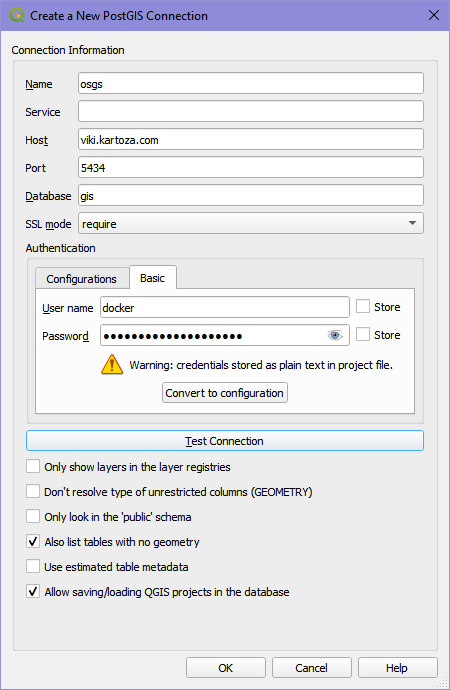
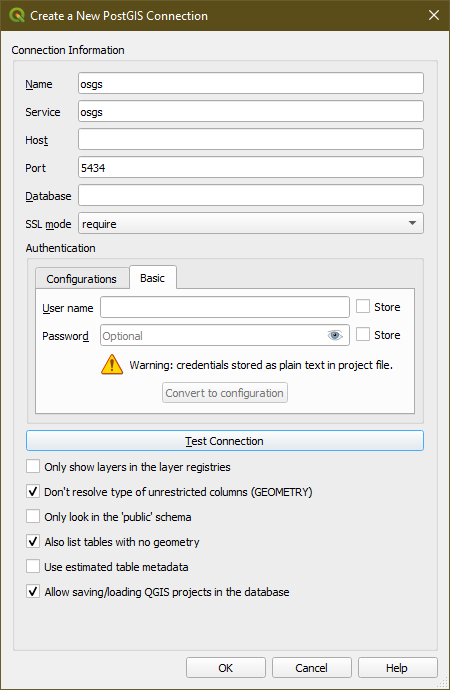
Update the osm mirror workflow

diff --git a/sphinx/source/workflows/create-osm-mirror-in-database.md b/sphinx/source/workflows/create-osm-mirror-in-database.md
@@ -1,34 +1,80 @@
 # Creating an Open Street Map mirror into your database
 
+The OSM mirror service uses the kartoza/docker-osm tool to create an in-database
+mirror of a designated geographical area in the designated postgres
+database schema (set to: osm). The OSM mirror tool is described in the project
+README here:
+
+https://github.com/kartoza/docker-osm
+
+To deploy the osm-mirror service, you need to follow the steps descibed below.
+
+
 ## Preparing the Country PBF file and the clip area document
 
 The PBF files for the country or region of interest can be downloaded from [GeoFabrik](https://download.geofabrik.de/). The PBF file used in this workflow was for Kenya and the URL for the country PBF file is https://download.geofabrik.de/africa/kenya-latest.osm.pbf.
 
-The clip area allows you to limit the features being imported into the PostGIS OSM database to a small area you can work with. You will need to save the clip area document as `conf/osm_conf/clip.geojson`. The `clip.geojson` can be the same extent of the administrative area for your country or region specified in the PBF file, or it can be a smaller extent. The CRS of the geojson should always be EPSG:4326.[[1]](#1)
+The clip area constrains any data being imported into the PostGIS database to a specific geographic area. You will need to save the clip area document as `conf/osm_conf/clip.geojson`. For best performance, a simple rectangle is best, but any complext polygon can be used. The `clip.geojson` can also be the same extent of the administrative area for your country or region specified in the PBF file, or it can be a smaller extent. The CRS of the geojson should always be EPSG:4326.[[1]](#1)
 
 <img src="../img/osm-mirror-workflow-1.png" alt="OSM mirror " width="300"/>
 
 You can easily create such a clip document at  https://geojson.io or by using QGIS. For this workflow the clip area document for the country Kenya, was obtained using QGIS. The Kenya country boundary data was obtained from the [Kenya- Subnational Administrative Boundaries data](https://data.humdata.org/dataset/ken-administrative-boundaries).
 
+
+## Editing the mappings.yml  file. 
+
+For advanced users, you can tweak the ``osm_conf/mapping.yml``. To customize the OSM data being imported into the PostGIS database. 
+
+You can see how the imposm3 mapping syntax works here: 
+
+https://imposm.org/docs/imposm3/latest/mapping.html
+
+> **Note**: You cannot alter the ```mappings.yml``` file after the service is running without
+clearing the database (using ```make stop-osm-mirror```) and restarting the import (using ```make deploy-osm-mirror```).
+
 ## Deploying the OSM mirror service. 
 
-To deploy the initial stack, which includes the  Nginx, Hugo watcher and SCP services, please run either  `make configure-ssl-self-signed` or `make configure-letsencrypt-ssl`. 
+To deploy the initial stack, which includes the  Nginx and Hugo watcher services, please run either  `make configure-ssl-self-signed` or `make configure-letsencrypt-ssl`. 
 
 Next deploy the Postgres service using `make deploy-postgres`. If you have PostgreSQL already installed outside of the stack (on your local machine) ensure that you specify a different Postgres public port number other than the default 5432. For example, you can use the port number 5434 for the public port. 
 
+After deploying the Postgres service, set up the ```.pg_service.conf``` file on your local machine using the instructions provided [here](https://www.postgresql.org/docs/9.0/libpq-pgservice.html).
+Your osgs service should look like this:
+
+```
+[osgs]
+dbname=gis
+user=docker
+port=
+password=
+host=
+sslmode=require
+```
+
+For the port and password configuration parameters, use the Postgres public port number (POSTGRES_PUBLIC_PORT) and Postgres password (POSTGRES_PASSWORD) specified in the ```.env``` file. For the host configuration parameter use the hostname of the server where you have set up OSGS. 
+
 To deploy the OSM mirror service, run the `make deploy-osm-mirror` command and follow the subsequent instructions. You can view the logs for the OSM mirror service using the command `make osm-mirror-logs`. 
 
-## Loading the OSM Mirror Layers into QGIS
-
-To use the layers in the OSM Postgis database in QGIS, use the Postgres public port number, username and password contained in the `.env` file to create a connection to the PostGIS OSM database `gis` in QGIS. Make sure to the set the SSL mode to require. 
+To use the OSM mirror layers in the Postgis database in QGIS, use the service name ```osgs``` and the port number you used to set up the ```osgs``` service  in the ```.pg_service.conf``` file to create a new PostGIS connection in QGIS. Make sure to the set the SSL mode to require. 
 
 <img src="../img/osm-mirror-workflow-2.png" alt="OSM mirror workflow" width="300">
+
+
+## Loading the default OSM mirror QGIS project.
+
+To load the default OSM mirror QGIS project, in the ```qgis_projects``` table, in the ```public``` schema, double click on the ```osm_mirror_qgis_project```. The project layers will load onto the QGIS **Map View**.
+
+<img src="../img/osm-mirror-workflow-11.png" alt="OSM mirror workflow" width="300">
+
+<img src="../img/osm-mirror-workflow-12.png" alt="OSM mirror workflow" width="500">
+
+## Loading the OSM Mirror Layers into QGIS
 
 The imported Open Street Map layers for the clip area specified are present in the `osm` schema of the database. 
 
 <img src="../img/osm-mirror-workflow-3.png" alt="OSM mirror workflow" width="300">
 
-To load a layer from the `osm` schema onto the QGIS Map View, double click on the table or drag and drop the table on the Map View. 
+To load a layer from the `osm` schema onto the QGIS Map View, double click on the table or drag and drop the table onto the Map View. 
 
 <img src="../img/osm-mirror-workflow-4.png" alt="OSM mirror workflow" width="500">
 
@@ -38,7 +84,7 @@ In the **Menu Toolbar** click on **Project**. From the drop down menu select **S
 
 <img src="../img/osm-mirror-workflow-5.png" alt="OSM mirror workflow" width="500">
 
-Save the project in the `public` schema and name it `qgis projects` to allow the `make backup-db-qgis-project` command to be able to create a back up of the project. 
+Save the project in the `public` schema and name the project. In this example we have named the project `qgis projects`.
 
 <img src="../img/osm-mirror-workflow-6.png" alt="OSM mirror workflow" width="300">
 
@@ -71,6 +117,46 @@ The saved style is added as an entry in the `layer_styles` table in the `public`
 To back up the QGIS styles created in the previous section, run the command `make backup-db-qgis-styles`. This backs up the `layer_styles` table in the `public` schema as a `.sql` file named `QGISStyles.sql`.  
 
 To restore a back up of the QGIS styles, name the back up file `QGISStyles.sql` and place it in the `backups` folder then run the command `make restore-db-qgis-styles`. 
+
+## Publishing with GeoServer
+
+You can publish the OSM mirror layers in the ```osm``` schema using GeoServer or by publishing a QGIS project that references the layers in the ```osm``` schema.
+
+The steps for publishing with GeoServer are quite simple:
+
+1. Log in to GeoServer using the 'admin' user and the password in .env.
+
+2. Create a new store of type 'Postgis' and configure it as per the screenshot below, replacing the password with the Postgres password stored in .env:
+
+   ![Store Creation in GeoServer](../img/geoserver-osm-1.png)
+
+    Also, be sure to scroll down and set SSL mode to Required:
+
+   ![SSL Mode Required](../img/geoserver-osm-5.png)
+
+
+3. Register one or more layers from that store as per the image below:
+   
+   ![Layer Creation in GeoServer](../img/geoserver-osm-2.png)
+
+4. Complete the layer details as appropriate and make sure to click the options highlighted in red in the screenshot below:
+
+   ![Adding a GeoServer WMS layer in QGIS](../img/geoserver-osm-3.png)
+
+5. Connect to the GeoServer from a client e.g. QGIS using WFS or WMS using the scheme:
+
+    	https://example.org/geoserver/SaintLucia/wfs
+
+    or
+
+        https://example.org/geoserver/SaintLucia/wms
+
+   ![Layer Details in GeoServer](../img/geoserver-osm-4.png)
+
+
+## Publishing with QGIS Server
+
+The workflows described in the section on working with the PostgreSQL database are basically all you need to know, so we don't repeat that here, other than to remind you that the OSM mirrored data is by default stored in a schema called ```osm```.
 
 ## References 
 

diff --git a/sphinx/source/services/docker-osm.md b/sphinx/source/services/docker-osm.md
@@ -89,121 +89,14 @@ make osm-mirror-imposm-shell
 
 ## Additional Notes
 
+To deploy the Docker osm-mirror service, you need to follow the steps described [here](https://kartoza.github.io/osgs/workflows/create-osm-mirror-in-database.html). 
 
-The OSM mirror uses the kartoza/docker-osm tool to create an in-database
-mirror of a designated geographical area in the designated postgres
-databse schema (set to: osm). The OSM mirror tool is described in the project
-README here:
-
-https://github.com/kartoza/docker-osm
-
-To deploy the docker-mirror you need to follow the steps descibed below. 
-First a process overview:
-
-1. Create the PBF feature container passing it a URL to a PBF file
-2. Create a clip file that will be used to constrain any retrieved / imported
-   data to a specific geographic area.
-3. Tweak the mappings.yml file (advanced users)
-4. Run the docker-osm service
-5. Optionally include these data in published services via QGIS projects, 
-   GeoServer etc.
-
-### PBF Container
-
-During the ``make configure`` process, the script will ask for the URL
-to an OSM .pbf file e.g.:
-
-```
-------------------------------------------------------------------
-Fetching pbf if not cached and then copying to settings dir
-------------------------------------------------------------------
-URL For Country PBF File: https://download.geofabrik.de/central-america-latest.osm.pbf
-```
-
-You can enter any valid URL for an OSM .PBF file at this point. A docker
-container will be built that fetches the PBD and stores it on the host 
-file system under osm_config.
-
-### Clip Area
-
-Create the clip area to constrain the geographical region that data 
-will be harvested for. For best performance, a simple rectangle is best,
-but any complext polygon can be used. The clip area must be saved 
-as ``osm_config/clip.geojson``. The format for the clip area must be 
-GeoJSON. You can easily create this using QGIS.
-
-### Mappings
-
-For advanced users, you can tweak the ``osm_config/mapping.yml`` 
-
-
-You can see how the imposm3 mapping syntax works here: 
-
-https://imposm.org/docs/imposm3/latest/mapping.html
-
-Note that you cannot alter the mappings after the service is running without
-clearing the databse and restarting the import.
-
-### Run services
-
-To run the OSM services do:
-
-```docker-compose --profile=osm up -d```
-
-### Publishing with GeoServer
-
-You can publish the data in the osm schema using GeoServer or 
-by publishing a QGIS project that references the data layers in
-the OSM schema.
-
-The steps for publishing with GeoServer are quite simple:
-
-1. Log in to GeoServer using the 'admin' user and the password in 
-   .env.
-2. Create a new store of type 'Postgis' and configure it as per the
-   screenshot below, replacing the password with the Postgres password
-   stored in .env:
-
-   ![Store Creation in GeoServer](../img/geoserver-osm-1.png)
-
-   Also, be sure to scroll down and set SSL mode to Required:
-
-   ![SSL Mode Required](../img/geoserver-osm-5.png)
-
-
-3. Register one or more layers from that store as per the image below:
-   
-   ![Layer Creation in GeoServer](../img/geoserver-osm-2.png)
-
-4.Complete the layer details as appropriate and make sure to click the options highlighted in red in the screenshot below:
-
-   
-   ![Adding a GeoServer WMS layer in QGIS](../img/geoserver-osm-3.png)
-
-1. Connect to the GeoServer from a client e.g. QGIS using WFS or WMS using the scheme:
-
-https://example.org/geoserver/SaintLucia/wfs
-
-or
-
-https://example.org/geoserver/SaintLucia/wms
-
-   ![Layer Details in GeoServer](../img/geoserver-osm-4.png)
-
-
-### Publishing with QGIS Server
-
-The workflows described in the section on working with the PostgreSQL database below are basically all you need to know, so we don't repeat that here, other than to remind you that hte OSM mirrored data is by default stored in a schema called 'osm'.
 
 ### OSM Attribution
 
-Note that whenever you publish a map containing OSM data, be
-careful to adhere to the license and credit the OSM Project as
-per:
+Note that whenever you publish a map containing OSM data, be careful to adhere to the license and credit the OSM Project as per:
 
 https://www.openstreetmap.org/copyright
-
-
 
 
 ## References
